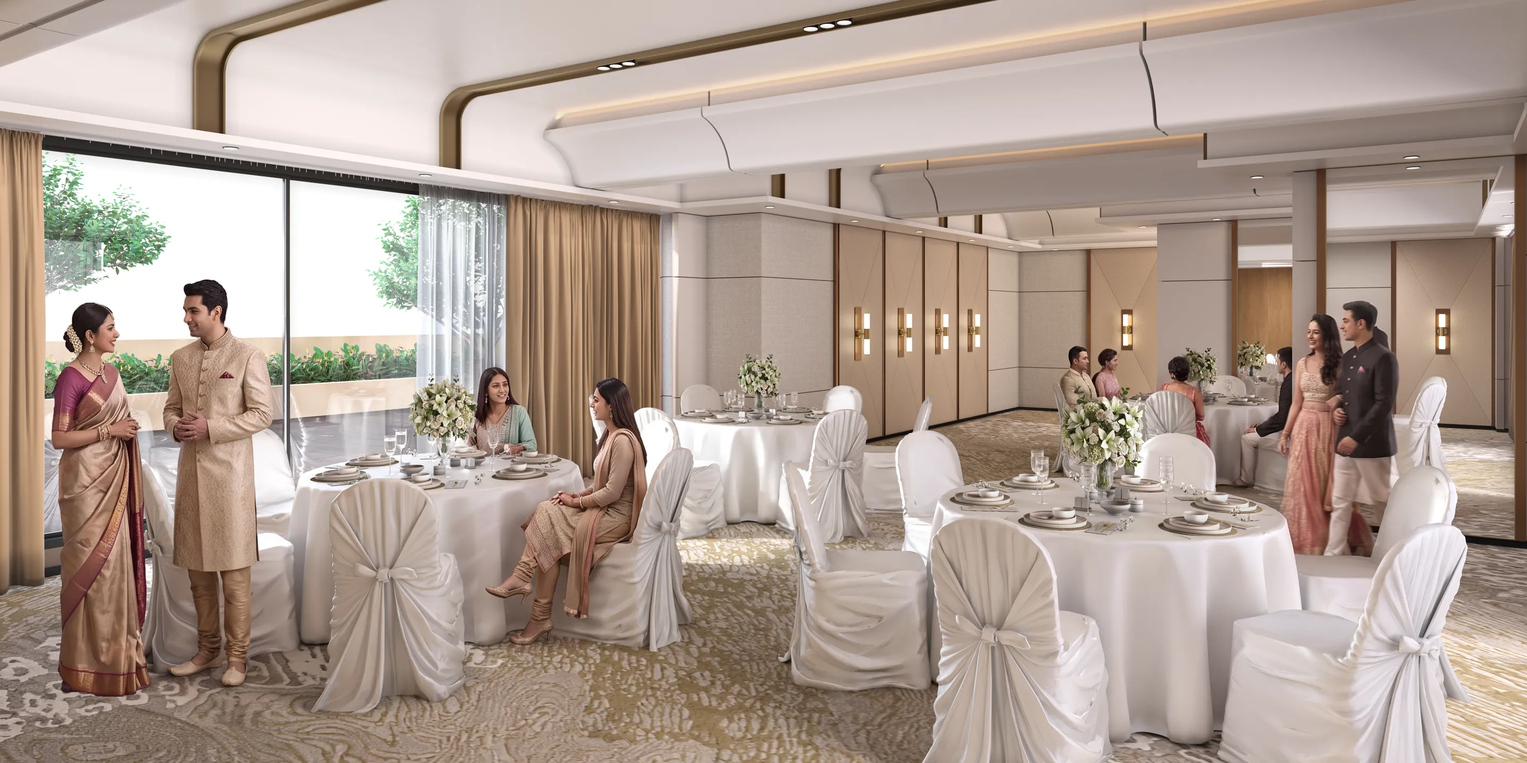
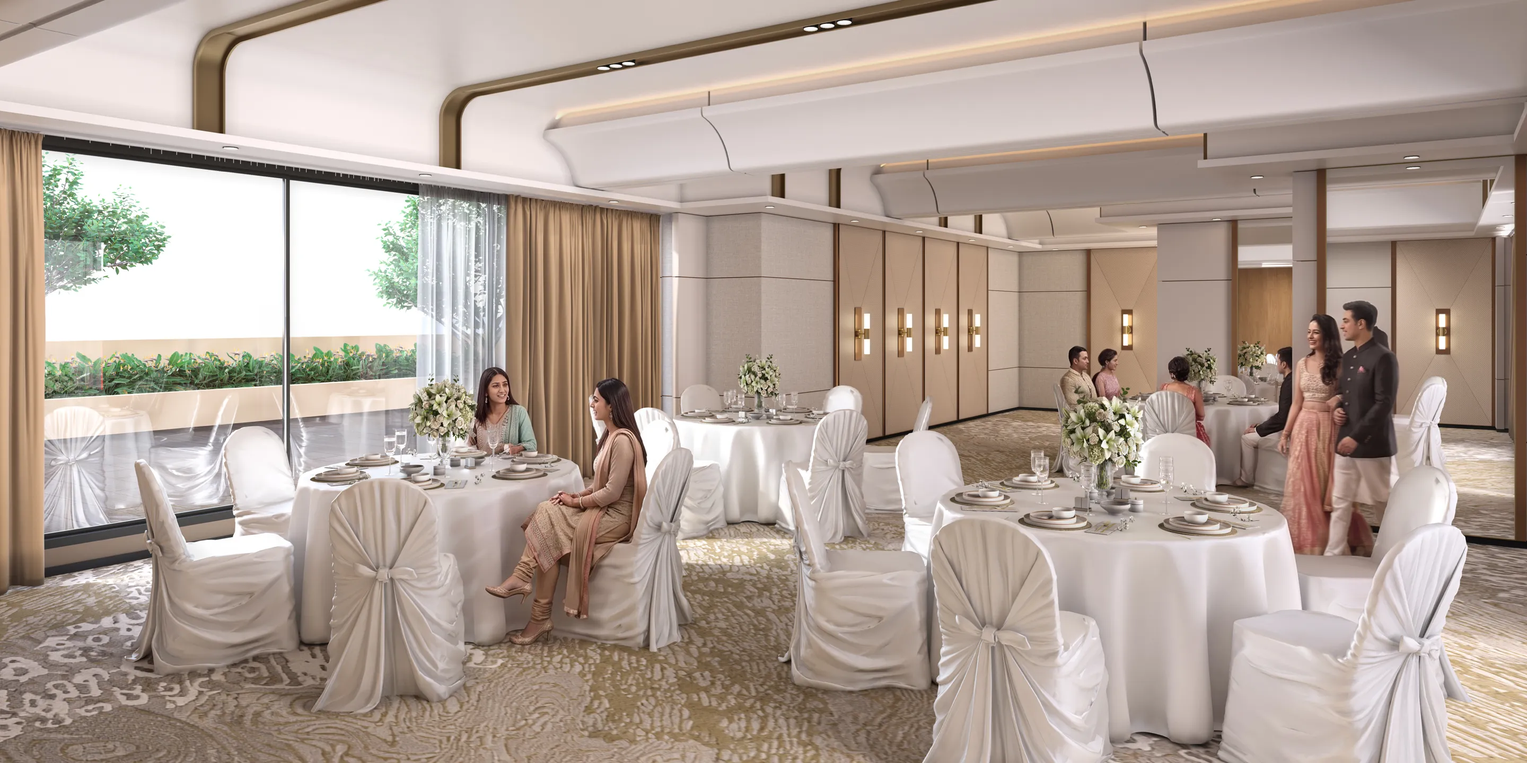
New amenity renders, AV Video section (YouTube, autoplay), drone views: radar removed, Units 01-04 share one front view, per-floor tilt (6 up to level by floor 20), wider drag range

Changed region(s): [[0.0312, 0.3438, 0.1875, 0.9375]]

diff --git a/src/components/ViewOverlay.jsx b/src/components/ViewOverlay.jsx
@@ -8,7 +8,7 @@ import PanoramaViewer from './PanoramaViewer.jsx'
 import ViewMap, { zoneCentre } from './ViewMap.jsx'
 import { floorExceptions, positions, typicalPlan, wing as planWing } from '../content/floorPlans.js'
 import { ordinal, typeAt } from '../content/inventory.js'
-import { nearestFloor, outlookPitch, planHeading, roomViews, topView, wingPanoramas } from '../content/panoramas.js'
+import { nearestFloor, outlookPitch, pitchAt, planHeading, roomViews, topView, wingPanoramas } from '../content/panoramas.js'
 import { prefersReducedMotion } from '../hooks/useMediaQuery.js'
 
 // The drone panoramas filling the presentation: the view from a wing at the
@@ -44,17 +44,18 @@ const tiltOf = room => Array.isArray(room?.tilt) && room.tilt.every(edge => type
 // (`back` in roomViews), chosen with Front view / Back view. Other homes have
 // the front only, here and in the unit finder's comparison.
 export const BACK_HOMES = ['01', '04']
-const outlookOf = (wingId, position, rooms, side = 'front') => {
+const outlookOf = (wingId, position, rooms, side = 'front', floor) => {
   const home = rooms[wingId]?.[position]
   const room = side === 'back' ? home?.back : home
   const edges = edgesOf(room)
   const estimate = bearingOf(position) + (side === 'back' ? 180 : 0) - planHeading[wingId]
   const yaw = edges ? (edges[0] + spanOf(edges) / 2) * rad : estimate * rad
-  // Every outlook opens at the one standard height (`outlookPitch`), whatever
+  // Every outlook opens at its floor's height (`pitchAt`: set per flown
+  // floor, else the one standard height, `outlookPitch`), whatever
   // pitch its start was set with, and is held there (client, 20 Oct 2026): it
   // turns left and right within its edges but never tilts, and zooms out no
   // further than it opens.
-  const view = { ...(room?.start ? toRadians(room.start) : { yaw }), pitch: outlookPitch * rad }
+  const view = { ...(room?.start ? toRadians(room.start) : { yaw }), pitch: pitchAt(floor) * rad }
   const lock = room?.outlook === false ? null : {
     yaw, span: edges ? spanOf(edges) * rad : OUTLOOK_SPAN, pitch: tiltOf(room), level: view.pitch, maxFov: view.fov ?? WING_START.fov,
   }
@@ -63,8 +64,8 @@ const outlookOf = (wingId, position, rooms, side = 'front') => {
 
 // A Wing A home's outlook as visitors see it, where it opens (`start`) and the
 // sector it is kept in (`lock`): for the unit finder's comparison of views.
-export const homeOutlook = (position, side = 'front') => {
-  const outlook = outlookOf(planWing, position, roomViews, side)
+export const homeOutlook = (position, side = 'front', floor) => {
+  const outlook = outlookOf(planWing, position, roomViews, side, floor)
   return { ...outlook, start: { ...WING_START, ...outlook.view } }
 }
 
@@ -172,7 +173,7 @@ export default function ViewOverlay({ wing = towers[0].id, floor = null, unit = 
   const differs = positions.filter(position => floorExceptions[shownFloor]?.[position])
   const home = absent.includes(radarUnit) ? positions[0] : radarUnit
   const facing = BACK_HOMES.includes(home) ? side : 'front'
-  const outlook = tower === planWing && !top ? outlookOf(tower, home, rooms, facing) : null
+  const outlook = tower === planWing && !top ? outlookOf(tower, home, rooms, facing, flight.floor) : null
   // While calibrating, only a home whose edges are set is locked, so the edges can be found.
   // Calibrating needs to tilt to find the top and bottom limits, so the height is not held then.
   const lock = locked && outlook?.lock && (!setting || outlook.sector) ? setting ? { ...outlook.lock, level: undefined, maxFov: undefined } : outlook.lock : null
@@ -189,7 +190,7 @@ export default function ViewOverlay({ wing = towers[0].id, floor = null, unit = 
     if (lock) handle.focus(outlook.view, lock)
     else if (locked && outlook) handle.focus(outlook.view, null)
     else handle.focus(current, null)
-  }, [radarUnit, facing, locked, aimed, rooms])
+  }, [radarUnit, facing, locked, aimed, rooms, flight.floor])
 
   // The Setup panel (?calibrate): the view's numbers, live, and the home's settings.
   useEffect(() => {
@@ -383,8 +384,8 @@ export default function ViewOverlay({ wing = towers[0].id, floor = null, unit = 
         </div>}
       </div>
 
-      {/* A mini floor plan, bottom right, with a radar at its centre that
-          turns with the picture. Wing B has no plans yet. */}
+      {/* A mini floor plan, bottom right, with a dot on the home the view
+          is taken from (no radar fan). Wing B has no plans yet. */}
       {!top && <div className={`pointer-events-auto mt-auto self-end ${mapOpen ? 'glass-panel w-[min(22rem,100%)] rounded-sm bg-plum-950/90! p-3' : ''}`}>
         <div className="flex items-center justify-between gap-4">
           {mapOpen && <p className="flex items-center gap-2.5 text-[0.62rem] font-medium uppercase tracking-[0.22em] text-fg">
@@ -397,7 +398,7 @@ export default function ViewOverlay({ wing = towers[0].id, floor = null, unit = 
           {tower === planWing
             ? <ViewMap ref={map} plan={typicalPlan} zones={typicalPlan.zones} homes={positions.filter(position => !absent.includes(position))} absent={absent} differs={differs}
               unit={home} onUnit={pickHome} heading={planHeading[tower]}
-              alt={`Floor ${shownFloor} plan of Wing ${tower}, with a radar showing where the view looks`} />
+              alt={`Floor ${shownFloor} plan of Wing ${tower}, marking the home the view is taken from`} />
             : <p className="rounded-sm bg-cream-100 px-4 py-8 text-center text-[0.62rem] uppercase tracking-[0.22em] text-muted" data-tone="light">Wing {tower} plans to follow</p>}
           {(absent.length > 0 || differs.length > 0) && <p className="mt-2 text-[0.52rem] uppercase leading-relaxed tracking-[0.2em] text-fg/80">
             {[...differs.map(position => `Unit ${position} has its own plan on this floor`), ...absent.map(position => `Unit ${position} is not on this floor`)].join(' · ')}
@@ -408,7 +409,7 @@ export default function ViewOverlay({ wing = towers[0].id, floor = null, unit = 
           {tower === planWing && <button type="button" className="chip mt-3 w-full justify-center" aria-pressed={locked} onClick={() => locked ? setLocked(false) : pickHome(home)}>
             {locked ? <>Outlook of Unit <span className="num ml-1">{home}</span>{facing === 'back' && ' · back'} · tap for all round</> : 'Look from this home'}
           </button>}
-          <p className="mt-2 text-[0.52rem] uppercase leading-relaxed tracking-[0.2em] text-muted">The radar shows where the view looks · press a home to look out from it · direction indicative</p>
+          <p className="mt-2 text-[0.52rem] uppercase leading-relaxed tracking-[0.2em] text-muted">Press a home to look out from it · direction indicative</p>
         </div>
       </div>}
     </div>

diff --git a/src/content/panoramas.js b/src/content/panoramas.js
@@ -71,6 +71,19 @@ export const planHeading = { A: 0, B: 0 }
 // front and back, uses it in place of its own start pitch, so turning from one
 // to another never tilts; the drone view opens at it too.
 export const outlookPitch = 10.4
+// The height every view is held at, by flown floor (client, 23 Oct 2026):
+// low floors look up a little, so less of the construction site shows (6
+// degrees at floor 6 and below), easing to straight out (0) by floor 20 and
+// staying level above it. Negative looks up. A floor listed in floorPitch
+// overrides the blend; outlookPitch is kept for the drone view's own opening.
+export const floorPitch = {}
+const LOW = { floor: 6, pitch: -6 }, LEVEL = { floor: 20, pitch: 0 }
+export const pitchAt = floor => {
+  if (floorPitch[floor] !== undefined) return floorPitch[floor]
+  if (!floor) return outlookPitch
+  const t = Math.min(1, Math.max(0, (floor - LOW.floor) / (LEVEL.floor - LOW.floor)))
+  return Math.round((LOW.pitch + (LEVEL.pitch - LOW.pitch) * t) * 10) / 10
+}
 
 // Each home's view, set by hand, per wing (the same on every floor), in degrees:
 //   start    where the view opens when the home is chosen: { yaw, pitch, fov }
@@ -89,14 +102,16 @@ export const outlookPitch = 10.4
 // the address: press a home on the mini plan, use the Setup panel, then
 // "Copy this room" or "Copy all rooms" and paste here. For example:
 //   A: { '01': { start: { yaw: 99.8, pitch: -7.5, fov: 55 }, outlook: [57.2, 159.9] } },
+// Units 01 to 04 face the same way, so their front views are one view
+// (client, 23 Oct 2026): opening on the same direction and sector.
 export const roomViews = {
   A: {
-    '01': { start: { yaw: 1, pitch: 10.4, fov: 82.4 }, outlook: [-56.4, 58.2], tilt: [-29.6, 44.3], back: { start: { yaw: 180, pitch: 21.1, fov: 88.5 }, outlook: [125.7, -125.2], tilt: [-25.7, 46.1] } },
-    '02': { start: { yaw: -2.9, pitch: 5, fov: 72.4 }, outlook: [-55.4, 49.6], tilt: [-30.2, 40.4] },
-    '03': { start: { yaw: 6.3, pitch: 10, fov: 60 }, outlook: [-44.6, 52.1], tilt: [-27.4, null] },
-    '04': { start: { yaw: -4.8, pitch: 10, fov: 88.5 }, outlook: [-56.7, 40.1], tilt: [-29.4, 41.5], back: { start: { yaw: 174.9, pitch: 2.9, fov: 64.7 }, outlook: [126.5, -136.7], tilt: [-28.6, 34.4] } },
-    '05': { start: { yaw: 177.9, pitch: 10, fov: 60 }, outlook: [125.8, -136.4], tilt: [-22.2, 40] },
-    '06': { start: { yaw: -177.3, pitch: 7, fov: 60 }, outlook: [140.6, -135.1], tilt: [-19.3, 34] },
+    '01': { start: { yaw: 17, pitch: 10.4, fov: 78 }, outlook: [-57, 91], tilt: [-42, 48], back: { start: { yaw: 180, pitch: 21.1, fov: 88.5 }, outlook: [110.7, -110.2], tilt: [-25.7, 46.1] } },
+    '02': { start: { yaw: 17, pitch: 5, fov: 78 }, outlook: [-57, 91], tilt: [-42, 48] },
+    '03': { start: { yaw: 17, pitch: 10, fov: 78 }, outlook: [-57, 91], tilt: [-42, 48] },
+    '04': { start: { yaw: 17, pitch: 10, fov: 78 }, outlook: [-57, 91], tilt: [-42, 48], back: { start: { yaw: 174.9, pitch: 2.9, fov: 64.7 }, outlook: [111.5, -121.7], tilt: [-28.6, 34.4] } },
+    '05': { start: { yaw: 177.9, pitch: 10, fov: 60 }, outlook: [110.8, -121.4], tilt: [-22.2, 40] },
+    '06': { start: { yaw: -177.3, pitch: 7, fov: 60 }, outlook: [125.6, -120.1], tilt: [-19.3, 34] },
   },
   B: {},
 }

diff --git a/src/components/ViewMap.jsx b/src/components/ViewMap.jsx
@@ -1,8 +1,8 @@
 import { forwardRef, useId, useImperativeHandle, useRef } from 'react'
 
-// A wing's floor plan with a radar standing on one home: a fan that points
-// where the panorama looks and opens as wide as the picture does. Press a home
-// on the plan to move the radar there. update() moves the fan straight on the
+// A wing's floor plan with a dot on the home the view is taken from (the fan
+// that showed where the panorama looks was removed, client 23 Oct 2026; its
+// update() stays as a no-op target). Press a home on the plan to move there. update() moves the fan straight on the
 // SVG (the panorama reports every frame it moves), so React never re-renders
 // for it; `heading` is how the panorama's front sits on the plan, in degrees
 // clockwise from the top of the drawing.
@@ -64,14 +64,11 @@ const ViewMap = forwardRef(function ViewMap({ plan, zones, homes, absent = [], d
       </defs>
       {absent.map(position => <polygon key={position} points={zones[position].points} style={{ fill: `url(#${CSS.escape(hatch)})`, pointerEvents: 'none' }} />)}
       {homes.map(position => <polygon key={position} points={zones[position].points} role="button" tabIndex={0}
-        aria-label={`Put the radar on Unit ${position}`} aria-pressed={position === unit}
+        aria-label={`Look out from Unit ${position}`} aria-pressed={position === unit}
         onClick={() => onUnit(position)} onKeyDown={event => { if (event.key === 'Enter' || event.key === ' ') { event.preventDefault(); onUnit(position) } }}
         style={{ pointerEvents: 'all' }} strokeDasharray={differs.includes(position) ? '16 10' : undefined}
         className={`cursor-pointer outline-none transition-colors duration-300 hover:fill-gold-500/15 focus-visible:fill-gold-500/25 ${differs.includes(position) ? 'fill-plum-700/10 stroke-plum-700 stroke-[6]' : 'fill-transparent'}`} />)}
-      {/* Keyed by home, so the fan is drawn afresh at its new place. */}
-      <g key={unit} ref={node => { turn.current = node; if (node) place(last.current) }} style={{ pointerEvents: 'none' }}>
-        <path ref={wedge} className="fill-gold-500/35 stroke-plum-800 stroke-[6]" strokeDasharray="18 14" />
-      </g>
+      {/* The radar fan was removed (client, 23 Oct 2026); the dot marks the home. */}
       <circle cx={x} cy={y} r="24" className="fill-plum-800 stroke-cream-100 stroke-[8]" style={{ pointerEvents: 'none' }} />
     </svg>
   </div>

diff --git a/src/pages/AVVideoPage.jsx b/src/pages/AVVideoPage.jsx
@@ -1,0 +1,25 @@
+// The project's AV film, as on Rivali Park 2: YouTube's own player and
+// controls, nothing of ours over it, playing as soon as the page opens. The
+// visitor has already pressed to enter the presentation and to get here, so
+// browsers let it start with sound (mute=0). The film is as large as the
+// screen allows at 16:9, centred on black, so YouTube's controls always stay
+// on screen; a screen of another shape shows black bars.
+//
+// `vq=hd2160` asks YouTube to start at its highest quality. YouTube still
+// adapts to the connection and can only serve what the upload has, so this is
+// a request, not a guarantee.
+const VIDEO_ID = 'VNm9qBBziIo'
+const SRC = `https://www.youtube.com/embed/${VIDEO_ID}?autoplay=1&mute=0&rel=0&modestbranding=1&playsinline=1&vq=hd2160`
+
+export default function AVVideoPage() {
+  return <section className="absolute inset-0 overflow-hidden bg-black" aria-label="AV video">
+    <h1 tabIndex={-1} className="visually-hidden">AV Video</h1>
+    <div className="absolute inset-0 flex items-center justify-center">
+      <div className="relative aspect-video w-[min(100%,177.78dvh)] bg-black">
+        <iframe className="absolute inset-0 size-full" src={SRC} title="Arkade Ascend AV film"
+          frameBorder="0" allow="accelerometer; autoplay; clipboard-write; encrypted-media; gyroscope; picture-in-picture; web-share"
+          referrerPolicy="strict-origin-when-cross-origin" allowFullScreen />
+      </div>
+    </div>
+  </section>
+}

diff --git a/src/components/UnitFinder.jsx b/src/components/UnitFinder.jsx
@@ -444,7 +444,7 @@ function CompareViews({ types }) {
   // Front and back turn the view in place, as the view from a plan does.
   const turn = (type, side) => {
     setSides(value => ({ ...value, [type.id]: side }))
-    const outlook = homeOutlook(type.unit, side)
+    const outlook = homeOutlook(type.unit, side, heightOf(type))
     viewers.current[type.id]?.focus(outlook.start, outlook.lock)
   }
   const shown = single ? types.filter(type => type.id === chosen) : types
@@ -466,8 +466,8 @@ function CompareViews({ types }) {
     <ul style={{ '--plans': shown.length }} className="grid min-h-0 flex-1 gap-[clamp(0.75rem,1.6vw,1.75rem)] split:grid-cols-[repeat(var(--plans),minmax(0,1fr))]">
       {shown.map(type => {
         const side = sides[type.id]
-        const outlook = homeOutlook(type.unit, side)
         const height = heightOf(type)
+        const outlook = homeOutlook(type.unit, side, height)
         const flight = flights.find(item => item.floor === height)
         return <li key={type.id} className="flex min-h-0 min-w-0 flex-col gap-2.5">
           <div data-own-gesture className="relative min-h-[15rem] flex-1 overflow-hidden rounded-sm border border-line bg-plum-950 short:min-h-[9rem] stack:aspect-[4/3] stack:min-h-0 stack:flex-none">

diff --git a/src/app/TransitionStage.jsx b/src/app/TransitionStage.jsx
@@ -13,6 +13,7 @@ import AmenitiesPage from '../pages/AmenitiesPage.jsx'
 import ViewsPage from '../pages/ViewsPage.jsx'
 import LocationPage from '../pages/LocationPage.jsx'
 import GalleryPage from '../pages/GalleryPage.jsx'
+import AVVideoPage from '../pages/AVVideoPage.jsx'
 import ArkadeFamilyPage from '../pages/ArkadeFamilyPage.jsx'
 
 // Holds the outgoing page on screen while its elements release, then swaps
@@ -100,6 +101,7 @@ export default function TransitionStage({ active }) {
         <Route path="/views" element={<ViewsPage />} />
         <Route path="/location" element={<LocationPage />} />
         <Route path="/gallery" element={<GalleryPage />} />
+        <Route path="/av-video" element={<AVVideoPage />} />
         <Route path="/about-us" element={<ArkadeFamilyPage />} />
         <Route path="/arkade-family" element={<Navigate to="/about-us" replace />} />
         <Route path="*" element={<Navigate to="/" replace />} />

diff --git a/src/app/routes.js b/src/app/routes.js
@@ -11,6 +11,7 @@ export const routes = [
   { id: 'views', path: '/views', label: 'Views', hint: 'The city from above', scene: 'views', preview: '/views/evening/still.webp' },
   { id: 'location', path: '/location', label: 'Location', hint: 'The city at your command', scene: 'cream', tone: 'light', preview: '/brochure/location-map.webp' },
   { id: 'gallery', path: '/gallery', label: 'Gallery', hint: 'Curated visions of Ascend', scene: 'gallery', preview: '/gallery/exterior/cam12-day-1600.webp', previewNote: 'Architect’s impression' },
+  { id: 'av-video', path: '/av-video', label: 'AV Video', hint: 'Arkade Ascend on film', scene: 'views', preview: '/gallery/exterior/cam27-evening-1600.webp', previewNote: 'Architect’s impression' },
 ]
 export const sections = routes.filter(route => route.menu !== false)
 

diff --git a/AGENTS.md b/AGENTS.md
@@ -22,7 +22,7 @@ The user requires this page and all future pages to adapt to phones, tablets, to
 - GSAP with React StrictMode: wrap effect animations in `gsap.context()` and `revert()` it on cleanup; never `tween.kill()` a `from()` tween. To skip the first run of a change animation, remember the last value animated (`animated.current === index`), never a first-run flag: StrictMode's double effects use the flag up and replay the change over the entrance, leaving `from()` targets hidden. Do not give GSAP-animated elements CSS transitions on `transform`, `opacity` or `filter`; animate hover nudges with the separate `translate` property instead.
 - Typography: the brochure's own fonts are served from `public/fonts` (see `src/styles/brand-fonts.css`): Billie Eilish for headlines, Gotham Book/Medium for text, labels and figures, Avenir LT Std Black for the lockup, Swiss 721 Condensed for map labels, Myriad Pro for the north arrow. No other typefaces, and no italic serif. Put every number in `.num` (upright, lining, tabular); the Billie Eilish file has no usable figures (1 is blank, 5, 6 and 8 are missing); never set figures in italic. Separate an index from its label with space, not long dash rules.
 - Restraint: the presentation is minimal and premium, not flashy. The silk veil is the only decorative 3D element, and it appears only on Home, About Us's projects and landmarks parts (preset `aboutGold`, quieter and running low behind the lists, the page in the dark tone and the header with it through `setTone` from `useShell`; text on that gold keeps at least 4.5:1, so the projects list uses the palette's darkest plums and a deep wine for ongoing projects, never the gold accent), and three Neu Gen chapters: the two framed openings (gold ribbons behind the framed plum panel, presentation pages 5 and 6; preset `arrival`) and the gilded chapter (brochure page 2); every other page sits on a still gradient preset. The tower appears two other ways. Its rendered 360° orbit (`src/scenes/orbit/`, frames in `public/orbit/`, see `public/asset-notes.md`) is on the Tower page, full screen under its own sky with Day / Evening / Night, and on Residences, on the page's plum with the city fading out at the edges (display, and Visual selection, where a wing and one of its floors are picked to open their plans; each wing is selected separately). It is 100 pre-rendered frames with day, night, depth and matte passes, composited in one shader on an on-demand canvas that draws nothing when still; the frames download once per visit and are shared by both pages; the background download runs only while an orbit is on screen, at low priority, three at a time, and steps aside while floor data loads (`engine.js`), so it never slows other pages' pictures. A change of light on the Tower page plays in the `'flow'` style (`transitionStyle` in `engine.js`; about 2 to 2.5 s, `flowSeconds`; instant under reduced motion), after a sketch from the client, in the silk veil's language: a gold satin band runs down the tower from the crown, floor by floor, then at its foot the new light spreads over the ground in a ring (a circle round the tower on the ground plane, an ellipse in perspective, from each frame's camera). The ground's distance runs out towards the horizon, so from a line in the middle distance (0.23 below the horizon) each column carries on up from where the ring crossed it, the middle leading: the ring's arc lifts through the far city into the sky in the same motion, quickening, and leaves the top as the change ends (the tower region is feathered and starts at its foot, so no box shows below it). A satin ribbon rides the front with its threads flowing outward in rings, and the windows come on just behind it. The `'silk'` style (about 1.8 to 2.2 s): the new light comes in as a wave across the view (left to right going darker, back going lighter), its edge rippling like cloth, a satin ribbon in the brochure's gold riding the front with a thinner one just ahead and a soft fold of shade behind, the image bending a touch beneath it; the windows come on just behind it. The view never moves or zooms, and nothing downloads. Other styles are kept, one setting away. The `'animus'` style (by request after Assassin's Creed's Animus, against the restraint above): on the relief described next, broken into square shards (`SHARD` in `OrbitStage.jsx`), a scan climbs the tower and runs out across the city; each shard it reaches lifts, turns and shrinks as a cool white hologram with lit edges and a slight colour split, takes the new light in flight and lands, its homes' windows switching as it settles, while the sky washes briefly towards a pale void. The `'3d'` style is the same relief without the shards: a 3D move about 2.4 to 2.9 s, `reliefSeconds`; instant under reduced motion). For the change, the frame becomes a relief of the city: a mesh of its world positions (`public/orbit/world/`, one vertex every other pixel, built in `buildRelief()` in `OrbitStage.jsx`; the world maps of the frame on screen load as the orbit settles, unless the device saves data), drawn instead of the flat pass, which then paints only the sky. The camera eases 18 m in towards the tower, 5 m up and 1.8 degrees round it and back (`reliefMove`; near blocks pass in front of far ones), a low sun rakes the faces turned to it (setting in the west going darker, rising in the east going lighter), the shadow rises by true height (the ground first, the tower's crown last; the other way at dawn) and each home's windows switch on by its own floor and bay. At rest every fragment of the relief samples its own pixel, so the hand-over to and from the flat render is seamless. Without the frame's world data within 0.8 s (`reliefWait`), or on Residences, the change runs flat as the time-lapse (`'timelapse'`: the shadow climbing the screen, the windows coming on floor by floor). A radial style (`'radial'`) is also kept. This is the one longer motion on the Tower page, by request. Visual selection lights floors from the renders' per-pixel world positions (`public/orbit/world/`), in gold (the floor filled and ruled top and bottom, the rest of the scene dimmed so it stands out, the pointed floor lighter than the chosen one, each fading in quickly), on the pointed wing only, and only floors with homes (`selectable` in `src/scenes/building/floors.js`; the floor list is `buildingModel.wings` in `src/content/template.js`). The orbit is zoomed in so the tower reads larger (client, 14 Oct 2026): `zoom` 1.32 on the Tower page, 1.3 for Residences' display, 1 in Visual selection (see below); `OrbitStage` applies it in full on wide views and eases it on tall narrow ones (about a third) and on short screens (landscape phones), so the crown and podium stay clear of the header and controls; the 1920 px frames are chosen with that zoom in mind. Mark the orbit "Architect’s impression", small at the bottom right (the Tower page's corner; the render's corner on Residences; the bottom right corner below the floor panel in Visual selection, which has no "See view"; client, 16 Oct 2026); mark the project's own renders "Architect’s impression" (the Gallery, the Amenities page's renders, Specifications' arrival lobby, the menu's render previews) and every stock or brochure photograph "Representational image" (Amenities, Specifications, Neu Gen, About Us), and nothing else. The tower model's lighter copy stands on its site on the Location map (`public/models/ascend-map.glb`, see Location): the map carries no model note (the client treats the tower as the real model, 13 Oct 2026); instead its disclaimer, "Indicative map not to scale · walking distances", sits bottom right (below the panel on laptops, beside it on short screens, above the sheet and the attribution on portrait screens). The Views page's 360° photo panoramas (Marzipano, loaded with the page, drawing only while the view moves) are photographs, not models. They turn slowly by default (off under reduced motion, paused behind the menu) with a stop button; the three times of day are layers of one scene on one shared view, so a time change is an in-place crossfade even mid-drag or mid-spin. Replacement panoramas must be re-projected onto the evening shot's frame first (`public/asset-notes.md`). Do not add other WebGL models. The Location map's weather (haze, clouds seen from above, drifting cloud shadows, sun shadows) is the one atmosphere: keep it soft, slow and clear of what the map frames. No glitter, particles, bloom, spinning lights, pulsing or pinging elements, glows, blur transitions or elastic/overshoot easing. Motion is short fades and small rises (about 1 s or less); interactive elements change colour or shift a few pixels. The exceptions are the brand line art that draws in with GSAP DrawSVG (`drawIn()` in `src/app/reveal.js`) and rests as the plain filled artwork: Home's Arkade Ascend lockup (`src/components/AscendLockup.jsx`, `data-reveal="draw"`), the deck's 9TH LANDMARK lockup (`src/components/LandmarkMark.jsx`, the Neu Gen opening; its 9 is the deck's outline, since Billie Eilish has no usable figures) and the brochure's NEU GEN monogram (`src/components/NeuGenMark.jsx`, `data-ch="draw"` on the Neu Gen *Has arrived* and closing chapters; also the still watermark of its two plum chapters).
-- Drone views of the site (`public/assets/Tower A`, `Tower B`, `Top View`: Marzipano cube-map exports, listed in `src/content/panoramas.js`) open full screen from "See view" on a unit's plan in Floor Plans (not the typical floor: the view is a home's own outlook) and from a plan card or home in the unit finder: `src/components/ViewOverlay.jsx` (a dialog portalled into the page frame, like the full-screen plan) over `PanoramaViewer.jsx` (the Views page's viewer, one layer per floor or time so a change crossfades in place). Each wing was flown at the height of 11 floors (5, 6, 8, 12, 16, 20, 24, 28, 32, 36, 37); a chosen floor shows the nearest one. They are photographs, labelled as the site at that height, not the residence's own view. Units 01 and 04 (the corner homes) have two outlooks on every floor, front and back, chosen with Front view / Back view under the mini plan (and Front / Back in the comparison); every other home has its front outlook only (client, 20 Oct 2026, `BACK_HOMES` in `ViewOverlay.jsx`). A home is always entered from the front. Each outlook's start view, left and right edges (at most 165° apart) and top and bottom limits are set by hand in `roomViews` in `src/content/panoramas.js` (per wing, the same on every floor; `back` holds the back outlook). They are calibrated by eye with the Setup panel: `?calibrate` in the address shows it in the drone view, with the view's yaw, pitch and zoom live; each edge is taken from the screen's edge at that limit; settings are kept in that browser only, and "Copy all rooms" gives the `roomViews` block to paste in. Every outlook, in the drone view and in the comparison, opens at one standard height, `outlookPitch` in `panoramas.js` (10.4° down, Unit 01's front view from floor 16; a start's own pitch is ignored), and is held there (client, 20 Oct 2026), so turning between any two never tilts; the drone view opens at it too: it turns left and right within its edges but never tilts, and zooms out no further than it opens (`level`, `maxFov` on the lock; not while calibrating). Front / Back and every other turn fly straight to where the lock will hold the view, yaw, pitch and zoom together, so nothing moves after landing (`focus()` in `PanoramaViewer.jsx`; a half turn about 1.3 s, gentle sine easing). A side not set uses the estimate from the home's place on the plan (facing away from the core, the back the other way, 110° wide) and is labelled "angle indicative".
+- Drone views of the site (`public/assets/Tower A`, `Tower B`, `Top View`: Marzipano cube-map exports, listed in `src/content/panoramas.js`) open full screen from "See view" on a unit's plan in Floor Plans (not the typical floor: the view is a home's own outlook) and from a plan card or home in the unit finder: `src/components/ViewOverlay.jsx` (a dialog portalled into the page frame, like the full-screen plan) over `PanoramaViewer.jsx` (the Views page's viewer, one layer per floor or time so a change crossfades in place). Each wing was flown at the height of 11 floors (5, 6, 8, 12, 16, 20, 24, 28, 32, 36, 37); a chosen floor shows the nearest one. They are photographs, labelled as the site at that height, not the residence's own view. Units 01 and 04 (the corner homes) have two outlooks on every floor, front and back, chosen with Front view / Back view under the mini plan (and Front / Back in the comparison); every other home has its front outlook only (client, 20 Oct 2026, `BACK_HOMES` in `ViewOverlay.jsx`). A home is always entered from the front. Each outlook's start view, left and right edges (at most 165° apart) and top and bottom limits are set by hand in `roomViews` in `src/content/panoramas.js` (per wing, the same on every floor; `back` holds the back outlook). They are calibrated by eye with the Setup panel: `?calibrate` in the address shows it in the drone view, with the view's yaw, pitch and zoom live; each edge is taken from the screen's edge at that limit; settings are kept in that browser only, and "Copy all rooms" gives the `roomViews` block to paste in. Every outlook, in the drone view and in the comparison, opens at one standard height, `outlookPitch` in `panoramas.js` (10.4° down, Unit 01's front view from floor 16; a start's own pitch is ignored), or rather at its flown floor's own height (`pitchAt`: 6° up at floor 6 and below so less of the construction site shows, easing to straight out by floor 20 and level above; `floorPitch` overrides a floor; client, 23 Oct 2026), and is held there (client, 20 Oct 2026). Units 01 to 04 face the same way, so their front views are one view (the same start and sector; client, 23 Oct 2026), so turning between any two never tilts; the drone view opens at it too: it turns left and right within its edges but never tilts, and zooms out no further than it opens (`level`, `maxFov` on the lock; not while calibrating). Front / Back and every other turn fly straight to where the lock will hold the view, yaw, pitch and zoom together, so nothing moves after landing (`focus()` in `PanoramaViewer.jsx`; a half turn about 1.3 s, gentle sine easing). A side not set uses the estimate from the home's place on the plan (facing away from the core, the back the other way, 110° wide) and is labelled "angle indicative".
 - Without WebGL the silk falls back to a still plum ground and Views to still images; the presentation must keep working.
 - The shared canvas renders on demand (`sceneStore.dirty`, set by `setScenePreset`): continuously only while the silk is on screen or a mood is blending. Still pages stay at zero draw calls.
 - Location uses MapLibre like our other projects' maps (Zenith, Hariko): OpenFreeMap's Positron style recoloured to the brochure palette, extruded 3D buildings, all one solid warm brown with no per-building colours (this source's tiles repeat feature ids, so data-driven colours paint whole blocks; the pin marks the project; OpenStreetMap heights above 200 m are tagging errors and are drawn low-rise), a camera that stays close to the tower (`src/pages/location/shots.js`, which models MapLibre's perspective to place it), flown with GSAP, walking routes and distances (client, 16 Oct 2026) from the FOSSGIS OSRM foot router, routing.openstreetmap.de (the public OSRM demo only drives; an arc if unavailable), and a 3D / 2D / brochure-map switch. The map fills the screen: the switch sits in the header row beside the logo (below the header on phones), and the location panel floats over the map (right on laptops and landscape phones, a bottom sheet on portrait screens). The map's camera padding equals whatever covers it, so routes are framed, and the 3D perspective centred, in the open part; zoom and attribution sit bottom left (zoom buttons hidden on phones, which pinch). It loads lazily with the page. Keep the OpenStreetMap attribution visible. Offline, the page falls back to the brochure map. Live-map positions are indicative and labelled so.
@@ -49,3 +49,4 @@ The user requires this page and all future pages to adapt to phones, tablets, to
 - Gallery's foot carries the client's disclaimer in full (`galleryDisclaimer` in `template.js`), small and muted below a hairline, never truncated: two lines on laptops, more on phones; on short screens the page scrolls to it.
 - Gallery has two tabs (client, 13 Oct 2026): Elevation (every exterior render) and Amenities (every interior and landscape render, the same files as the Amenities page). Views carries "Shot on location" bottom right.
 - Residences opens as it starts: opening the menu closes Visual selection and the Unit Finder behind it (choosing the page you are on only closes the menu, so the page itself must reset).
+- AV Video (`/av-video`, the last menu section, `src/pages/AVVideoPage.jsx`; client, 23 Oct 2026): the project's AV film as a plain YouTube embed, as on Rivali Park 2: YouTube's own player and controls with nothing of ours over it, playing with sound as soon as the page opens (`autoplay=1&mute=0`; the visitor has already pressed to get there), `vq=hd2160` asking for the highest quality (YouTube treats it as a request). The film is as large as the screen allows at 16:9, centred on black, so YouTube's controls always stay on screen.

diff --git a/public/asset-notes.md b/public/asset-notes.md
@@ -244,6 +244,12 @@ architect's impression. Originals map as follows:
   Swimming_Pool_view_Cam_08_final; `lap-pool-evening`:
   Ascend_Swimming_Pool_Evening_final
 
+Updated renders (supplied 22 Oct 2026, two Drive downloads, same framing and
+sizes as before) replaced `lap-pool-evening`, `lap-pool-aerial` (unchanged
+after conversion), `multipurpose-court` (Ascend_Cam41_Multipurpose_Court_Final),
+`amphitheatre-lawn` (Amphitheatre_final), `golf-simulator`, `banquet-hall`
+(Ascend_Banquet_hall_final) and `gym`, converted the same way.
+
 The brochure photographs these replace stay in `public/brochure/` (amenities:
 pickleball, multipurpose-court, kids-play, creche, gym, kick-boxing,
 indoor-games, music-studio, private-screening, hobby-studio, banquet-hall,
